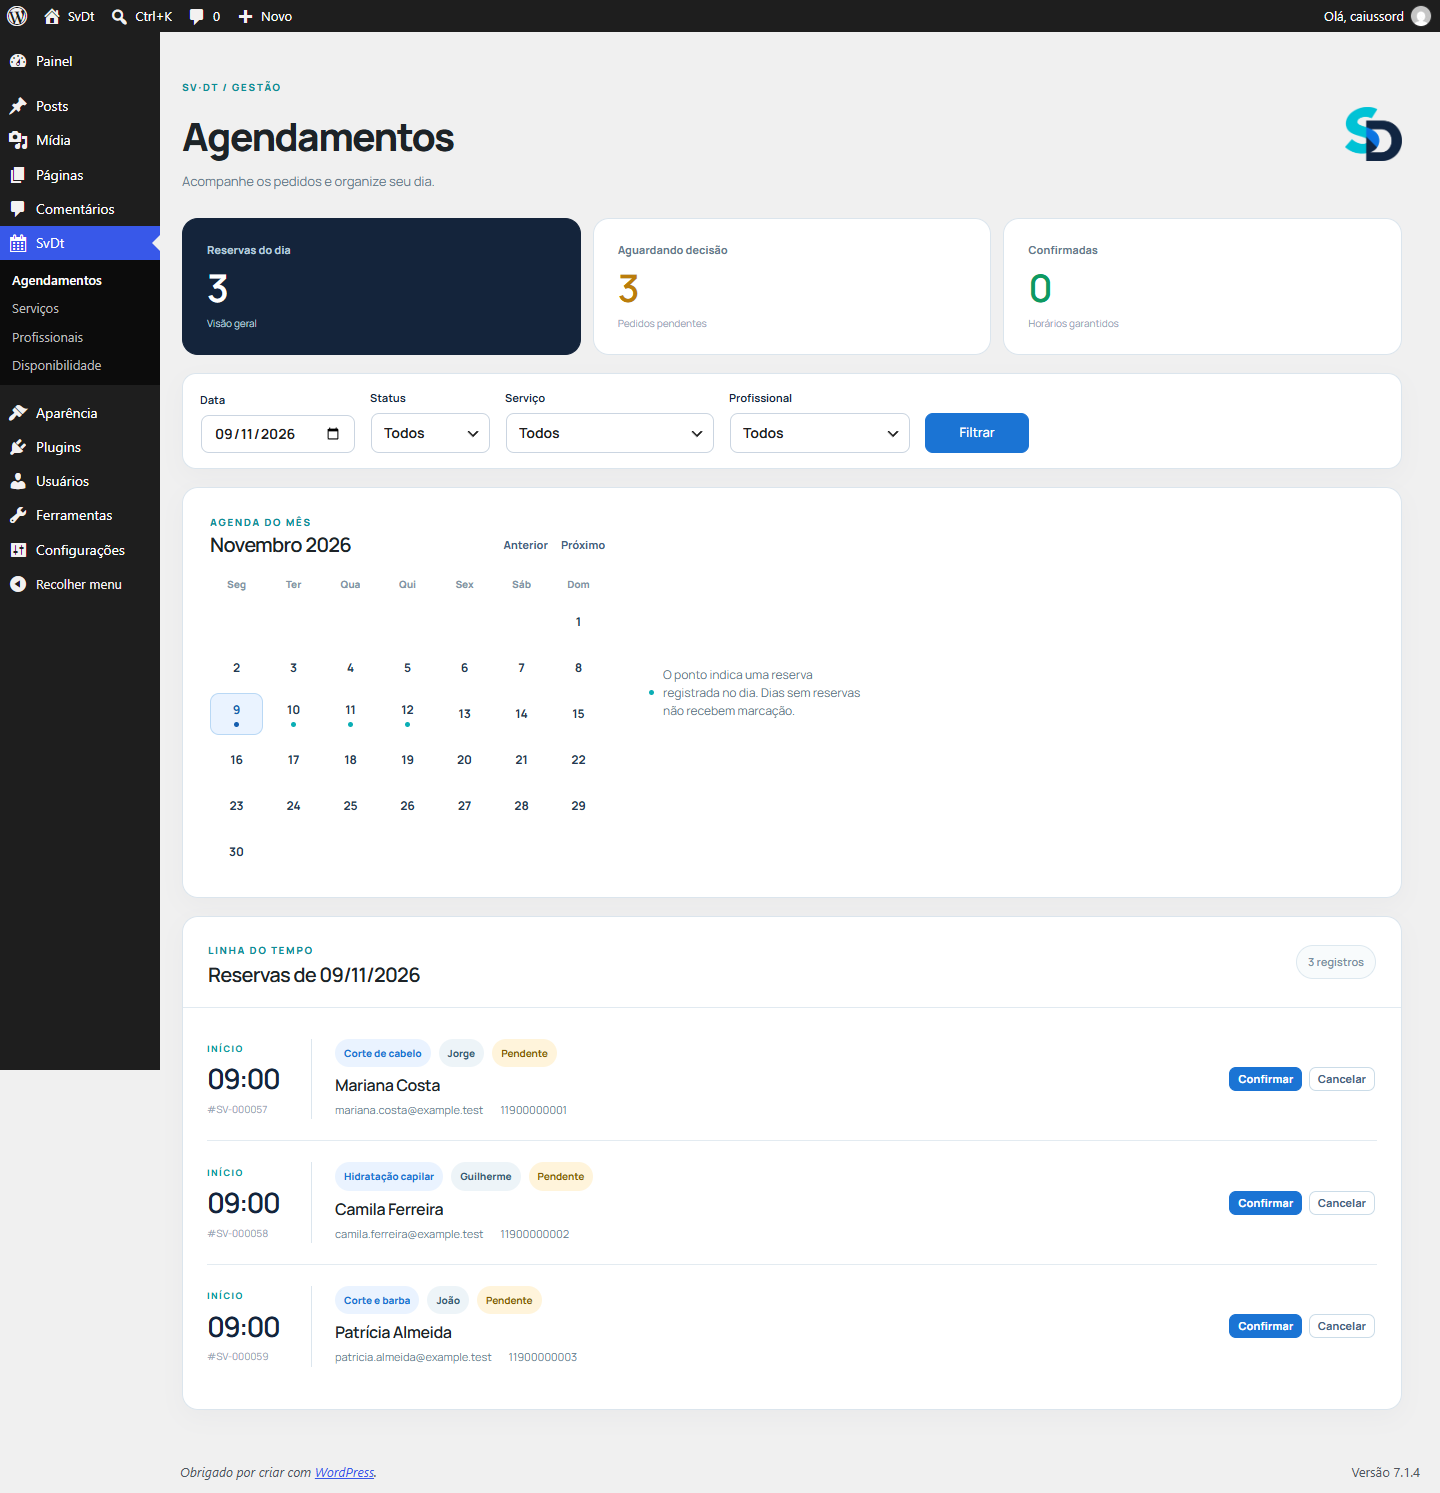
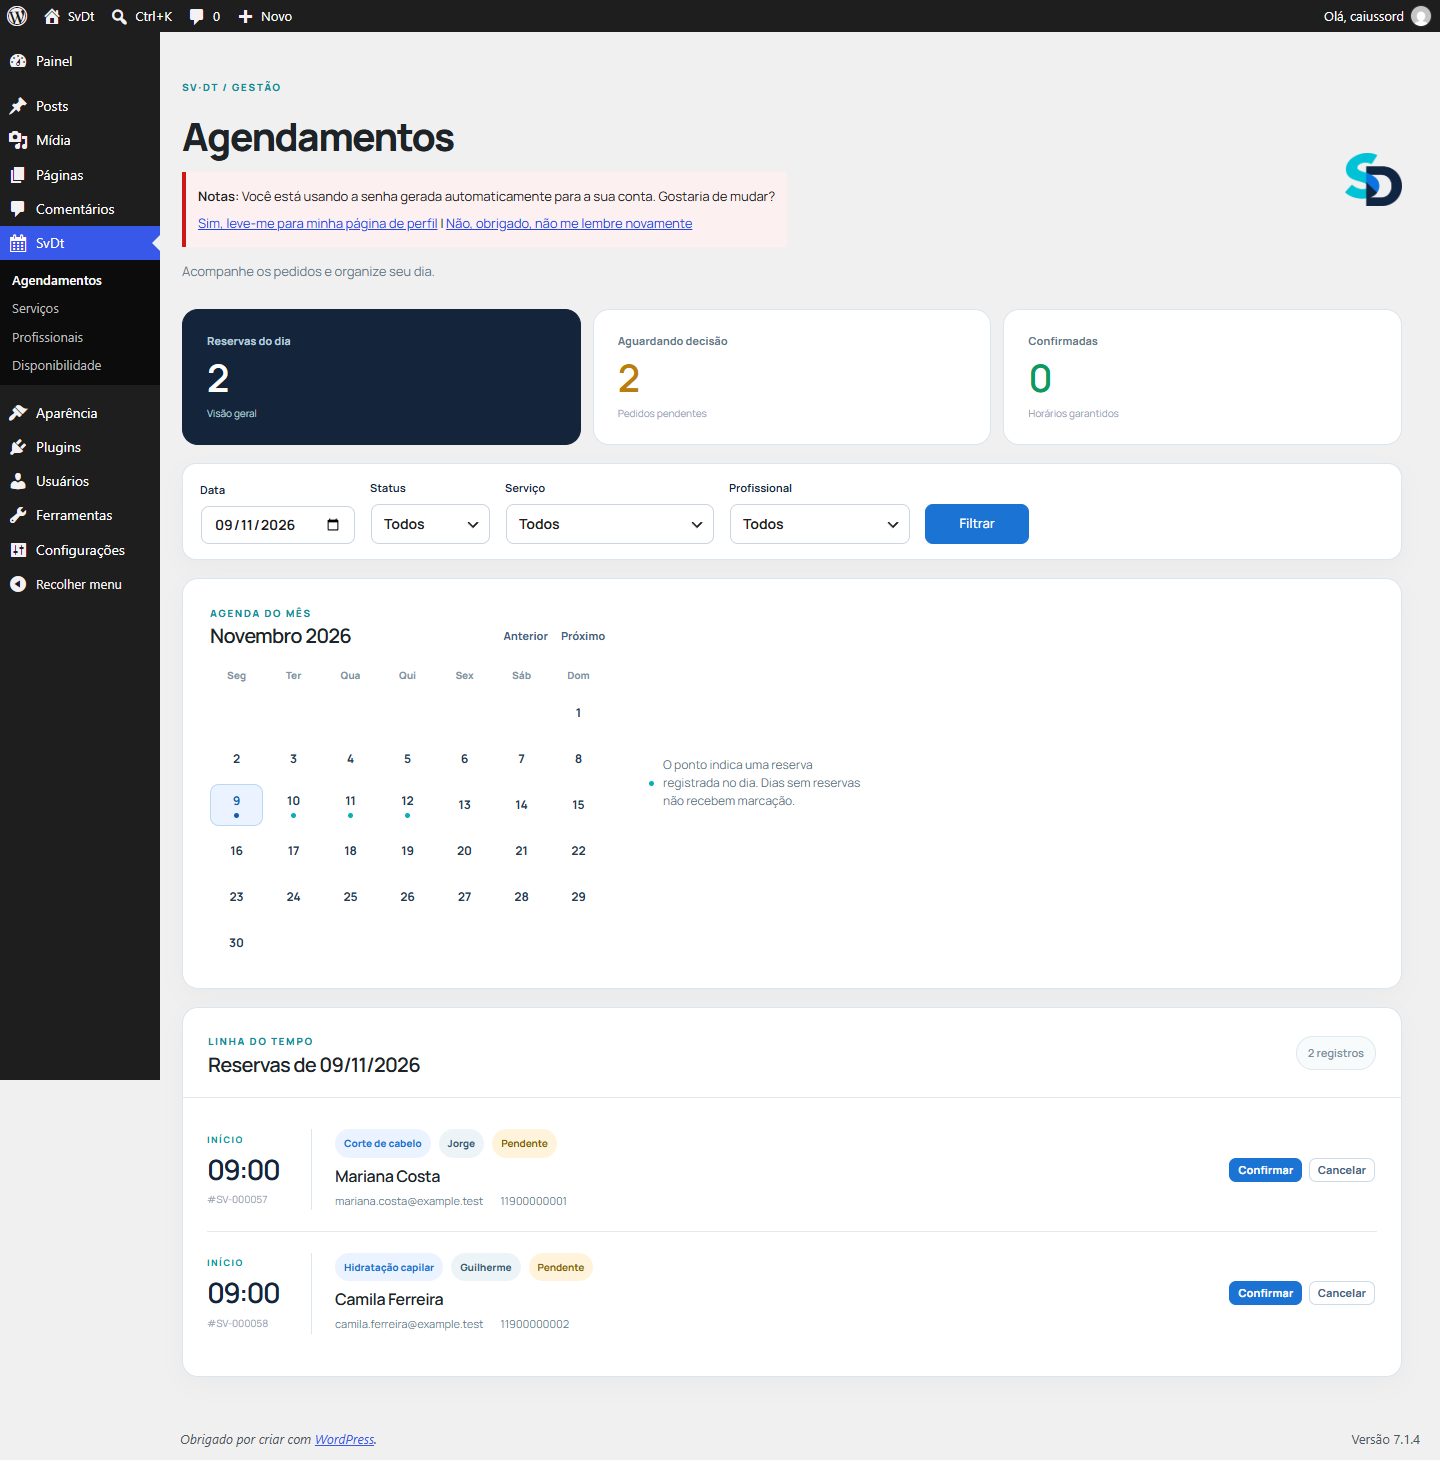
Remove mismatched demo booking

diff --git a/tests/seed-showcase-local.php b/tests/seed-showcase-local.php
@@ -17,7 +17,6 @@ $monday = current_datetime()->setTime(0, 0)->modify('next monday');
 $people = array(
     array('Mariana Costa', 'Jorge', 'Corte de cabelo', 0, '09:00', 'pending', 'mariana.costa@example.test', '11900000001'),
     array('Camila Ferreira', 'Guilherme', 'Hidratação capilar', 0, '09:00', 'pending', 'camila.ferreira@example.test', '11900000002'),
-    array('Patrícia Almeida', 'João', 'Corte e barba', 0, '09:00', 'pending', 'patricia.almeida@example.test', '11900000003'),
     array('André Ribeiro', 'Jorge', 'Barba', 1, '14:00', 'confirmed', 'andre.ribeiro@example.test', '11900000004'),
     array('Rafael Souza', 'Guilherme', 'Lavagem e finalização', 2, '15:00', 'confirmed', 'rafael.souza@example.test', '11900000005'),
     array('Lucas Martins', 'João', 'Acabamento de contorno', 3, '11:00', 'confirmed', 'lucas.martins@example.test', '11900000006'),
